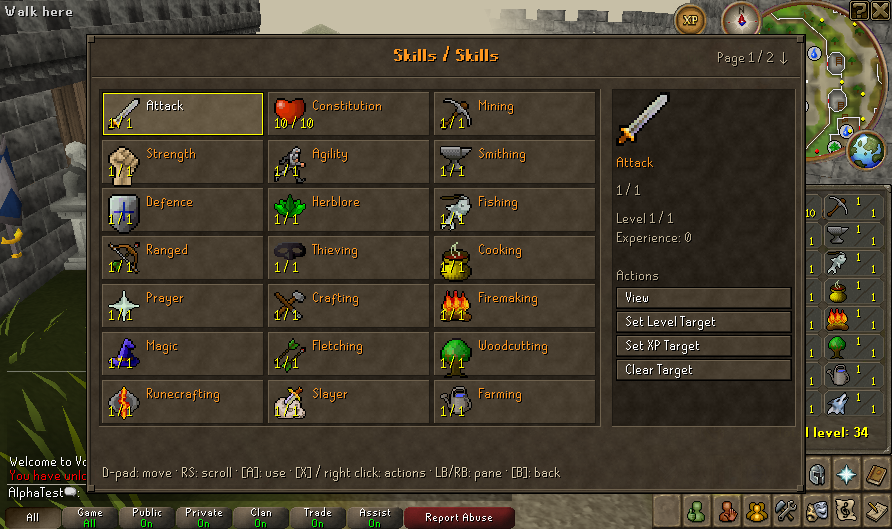
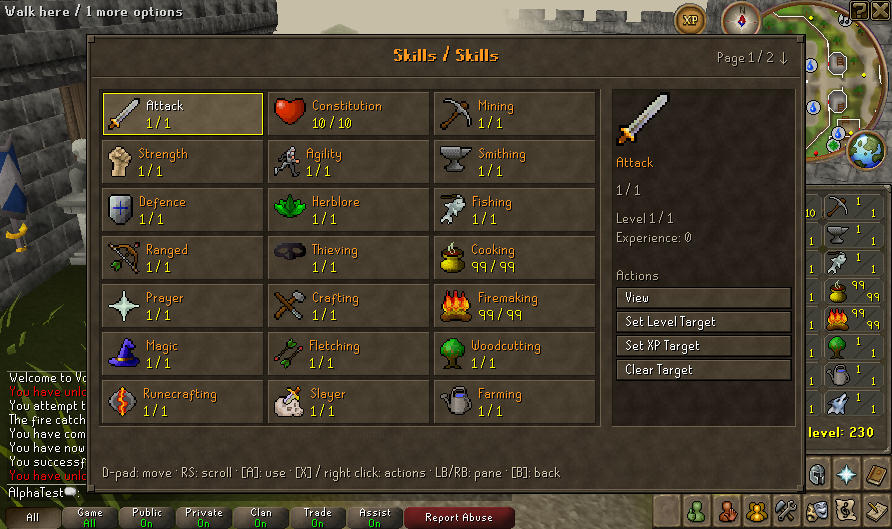
Record final UI screenshots and Steam Deck release measurements

diff --git a/docs/UI_DECK_RELEASE.md b/docs/UI_DECK_RELEASE.md
@@ -14,9 +14,26 @@ Inventory and bank previews use actual sprites rendered from the compatible 634 
 - Tooling: all 99 tests pass.
 - Patch reproduction: all 135 client and 50 server modified/patched files match the exported patch stacks.
 - Native artwork and tab-bar smoke: 32 item sprites captured, real Skills tab opened, focus/highlight/A/B guards verified; New/Continue preserves save fields, four backups verified, cancelled startup preserves the entire saved world.
-- Earlier playtest-two probe covers actual player-lit fire cooking and Blood Pact projection. The projection fix captures the world renderer state before interface model rendering overwrites it, so it applies across instances rather than special-casing Blood Pact. Untested instance layouts still need gameplay coverage.
+- Final playtest-two probe covers actual player-lit fire cooking and Blood Pact projection. The projection fix captures the world renderer state before interface model rendering overwrites it, so it applies across instances rather than special-casing Blood Pact. Untested instance layouts still need gameplay coverage.
 - The adventure probe's existing “Settings disappeared on second tick” failure is documented in [UI overhaul](JAGEX_UI_OVERHAUL.md).
 
 ## Steam Deck deployment and performance
 
-Deployment results and measurements are added after testing the private candidate on the device. Previous sustained measurements, with their separate candidate and conditions, remain in [60 FPS report](DECK_60FPS_REPORT.md).
+The private `deck-ui-20261013-r22` snapshot passed all 10,492 manifest file checks. The existing character received a verified pre-deployment backup; all 88 copied profile files matched their source hashes. The old r10 installation remains available. The copied profile enables **Deck 60 FPS target**; original preferences are retained separately. This selects OpenGL/60 FPS pacing and disables animated scenery shadows. Character/world data is unchanged.
+
+The existing SoloScape Steam shortcut uses `/home/deck/SoloScape-test/launch.sh`; deployment switches that wrapper to r22. Select **Continue** in the launcher to test the existing character.
+
+A temporary Steam shortcut launched `smoke-profile.sh --desktop --deck60-gl-only --tab-bar` in Gaming Mode. It passed native tab navigation, New/Continue save-field preservation, four verified backups and entire-world preservation on startup cancellation. The temporary shortcut is removed after testing. The initial background service run did not present its window and is excluded from measurements.
+
+| 1280×800 OpenGL, 60 FPS cap | New | Continue |
+| --- | ---: | ---: |
+| Average FPS | 59.65 | 59.90 |
+| Median frame interval | 16.71 ms | 16.66 ms |
+| p95 frame interval | 18.67 ms | 18.05 ms |
+| p99 frame interval | 23.89 ms | 19.81 ms |
+
+The uncapped comparisons averaged 60.00 FPS under the compositor. Both samples confirm AMD hardware OpenGL, controller connected, canvas focused and actual 1280×800 native dimensions. Each stage lasts 25 seconds, with frame samples taken after its first ten seconds. Aggregate evidence: [New](performance/ui-r22-new.json) and [Continue](performance/ui-r22-continue.json).
+
+These are short stationary disposable-world checks with the native inventory shown and custom controller panels closed during timing. They measure overlay callback intervals, not independent scanout; they do not establish sustained 60 FPS during routes or quantify the open Skills panel. The first capped p99 exceeds 20 ms. Physical D-pad/Steam Input mapping remains a user playtest check. AWT Robot captures from Gaming Mode returned black, so the published UI screenshots use the verified host native captures and clearly labelled renderer fixtures.
+
+Previous sustained measurements, with their separate candidate and conditions, remain in [60 FPS report](DECK_60FPS_REPORT.md).

diff --git a/docs/JAGEX_UI_OVERHAUL.md b/docs/JAGEX_UI_OVERHAUL.md
@@ -87,16 +87,16 @@ The three "Live client" images are real native captures from the disposable `--t
 ![New Character](images/jagex-launcher-new-character.png)
 ![World Settings](images/jagex-launcher-world-settings.png)
 
-To regenerate the fixtures, compile and run the harness against the built client jar:
+To regenerate the fixtures, first run `./scripts/smoke-profile.sh --artwork` to capture sprites from the locally supplied compatible cache, then compile and run the harness against the built client jar:
 
 ```bash
 javac -cp <void-client jar> -d <dir> scripts/harness/JagexUiPreview.java
-java -cp <void-client jar>:<dir> JagexUiPreview <output dir> docs/images/alpha-native-private-world.png <native-login.marker.artwork dir>
+java -Djava.awt.headless=true -cp <void-client jar>:<dir> JagexUiPreview <output dir> docs/images/alpha-native-private-world.png <native-login.marker.artwork dir>
 ```
 
 ## Validation
 
-- **Client regressions:** 241 cases, zero failures or errors, one existing optional SDL skip. The previous total was 230. New coverage: four theme cases (every palette colour initialised in both palettes, fonts, classic colour rules, helpers drawing only inside their bounds) and five tab-bar cases. The existing hit-map tests pass under the new font metrics.
+- **Client regressions:** 241 cases, zero failures or errors, one existing optional SDL skip. The previous total was 230. New coverage: two native artwork cases, four theme cases (every palette colour initialised in both palettes, fonts, classic colour rules, helpers drawing only inside their bounds) and five tab-bar cases. The existing hit-map tests pass under the new font metrics.
 - **Root tooling:** 99 passing cases. Python compilation and whitespace checks pass.
 - **Source reproduction:** the client stack (now through 0044) reproduces all 135 modified or patched files; the server stack reproduces all 50. The matched jars were rebuilt with `prepare-build.sh` and the build stamp refreshed.
 - **Launcher:** `smoke-launcher.py` passes against the built jar. It covers the real Swing launcher, backend, controller name entry, held-A guard, account filter, Steam keyboard ownership and World Settings saving 5×/3×. The probe now also captures the World Settings dialog.
@@ -117,7 +117,7 @@ java -cp <void-client jar>:<dir> JagexUiPreview <output dir> docs/images/alpha-n
 
 - The native, launcher and fixture checks above ran on owned virtual displays or software renderers. They are not physical Steam Deck or Gaming Mode acceptance. Text comfort at Deck viewing distance, especially at the 16 px base size, needs an on-device look; **Overlay size (%)** steps the type through 20, 24 and 32 px.
 - The RuneScape plain face draws zero with a slash ("Ø"-like). That is the font as RuneLite ships it.
-- Stone textures are filled each frame while a panel or wheel is open, and only then. The world HUD stays untextured. No Deck frame-time measurement was made for this candidate.
+- Stone textures are filled each frame while a panel or wheel is open, and only then. The world HUD stays untextured. Current Deck measurements and their limits are recorded in [UI Deck release](UI_DECK_RELEASE.md).
 - Native game interfaces (the 634 client's own panels, dialogue and chatbox) are not repainted. SoloScape surfaces now match their conventions instead.
 - Deployment and current on-device measurements are recorded in [UI Deck release](UI_DECK_RELEASE.md).
 - The tab-bar check scripted pad states through the plugin's input tick. A physical controller, Steam Input layouts that map the D-pad elsewhere, and Gaming Mode remain acceptance items. While the bar is focused, world movement pauses; the camera stays live.

diff --git a/README-SOLOSCAPE.md b/README-SOLOSCAPE.md
@@ -89,4 +89,4 @@ Fullscreen candidate: press **F11** in game to enter or leave fullscreen. Change
 
 Playtest 2 candidate (13 October 2026): [changes, server approach and validation](docs/PLAYTEST_2.md) cover occupied-slot inventory navigation, reversed horizontal camera input, unobstructed target prompts, full-pile loot menus, per-world XP/drop/run settings, player-lit fire Use and the original brazier launcher scene. This is a local matched candidate; the installed Deck shortcut is unchanged.
 
-Jagex-style UI candidate (13 October 2026): [overhaul, previews and validation](docs/JAGEX_UI_OVERHAUL.md). The launcher and every SoloScape controller surface now use the RuneScape bitmap fonts, stone frames, classic menu colours and the "Choose Option" menu (client patch 0042). D-pad left/right focuses the native tab bar from world input; a fresh A opens the highlighted tab and B returns to the world (client patch 0043). Classic controller UI off restores the modern palette. Local matched candidate only; the installed Deck shortcut is unchanged.
+Jagex-style UI candidate (13 October 2026): [overhaul, previews and validation](docs/JAGEX_UI_OVERHAUL.md). The launcher and every SoloScape controller surface now use the RuneScape bitmap fonts, stone frames, classic menu colours and the "Choose Option" menu (client patch 0042). D-pad left/right focuses the native tab bar from world input; a fresh A opens the highlighted tab and B returns to the world (client patch 0043). Classic controller UI off restores the modern palette. Native item artwork and all 25 skill icons/levels are included (client patch 0044). [Deck release, screenshots and performance](docs/UI_DECK_RELEASE.md).
